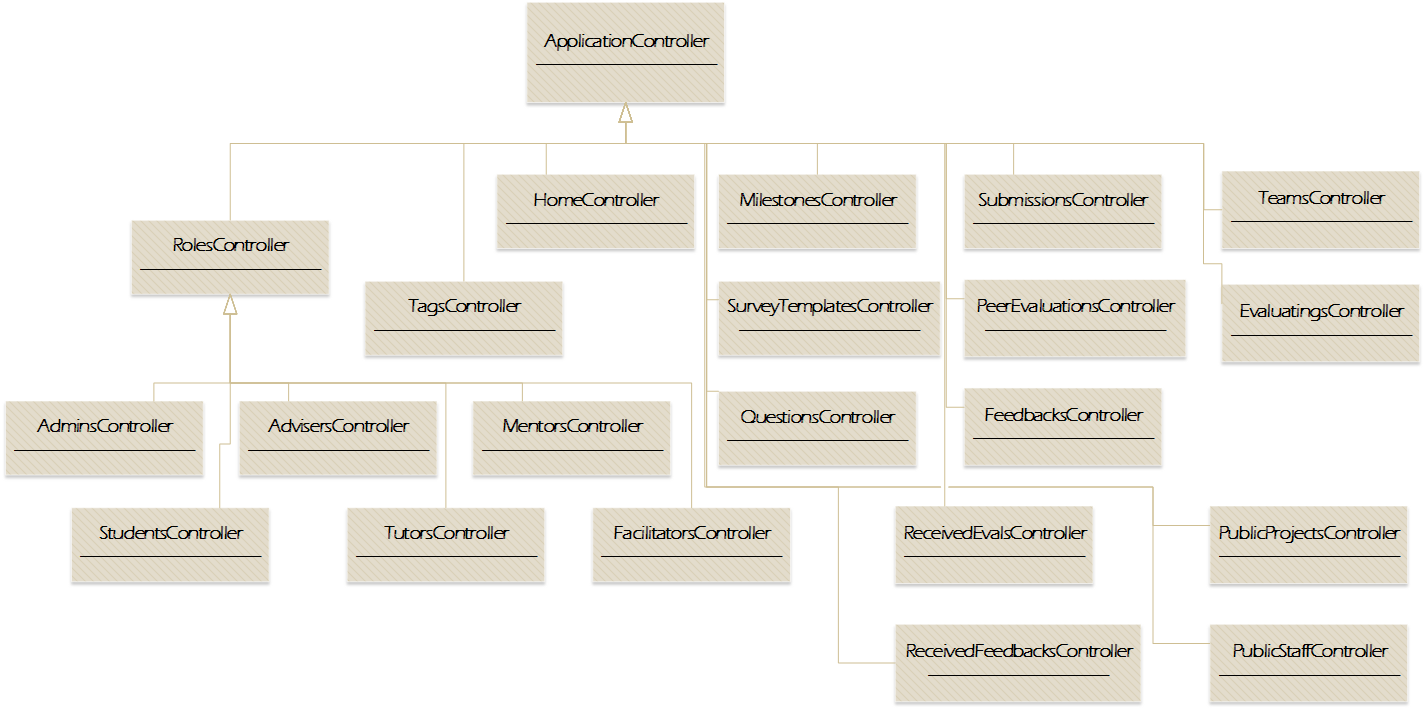
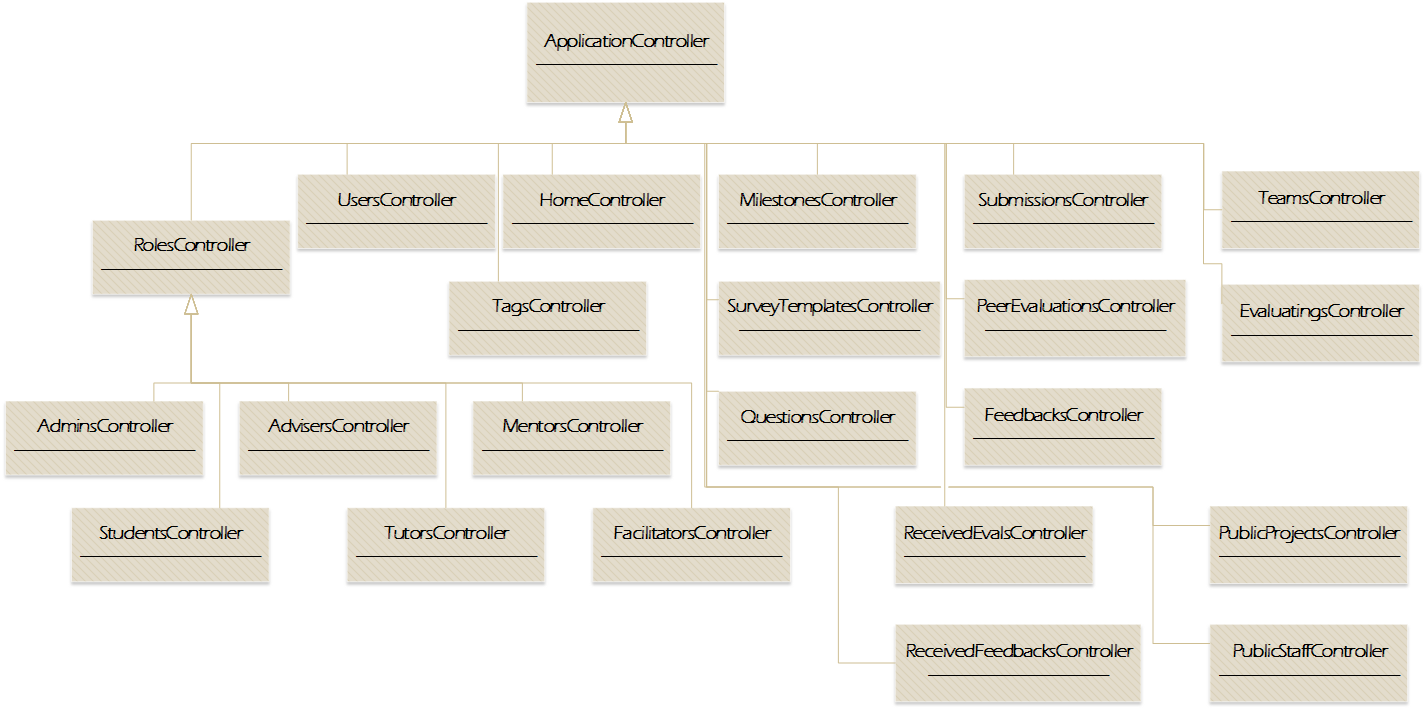
update controllers diagram

Changed region(s): [[0.0617, 0.2479, 0.4937, 0.5268]]

diff --git a/docs/2015_2016_Sem2_Final_Report/Chapters/Chapter_Background.tex b/docs/2015_2016_Sem2_Final_Report/Chapters/Chapter_Background.tex
@@ -54,7 +54,25 @@ Controllers will query models to get information needed to present views or make
   \label{fig:SkylabControllers}
 \end{figure}
 
-ApplicationController is the base of all other controllers. Utility methods such as access control, page title and handling of exceptions are included in ApplicationController and it also includes auxiliary modules such as CohortHelper to enrich its functionality. RolesController is the base class of all roles` controller classes: AdminsController, AdvisersController, MentorsController, StudentsController, FacilitatorsController and TutorsController. These roles share quite a lot in common so they will share request processing methods and they will override data related methods or provide some handlers for special cases. 
+ApplicationController is the base of all other controllers. Utility methods such as access control, page title and handling of exceptions are included in ApplicationController and it also includes auxiliary modules such as CohortHelper to enrich its functionality. RolesController is the base class of all roles` controller classes: AdminsController, AdvisersController, MentorsController, StudentsController, FacilitatorsController and TutorsController. These roles share quite a lot in common so they will share request processing methods and they will override data related methods or provide some handlers for special cases. Other controllers are as follows:
+
+\begin{itemize}
+  \item \textbf{HomeController}: serves home page to user only.
+  \item \textbf{UsersConroller}: 
+  \item \textbf{TagsConroller}: 
+  \item \textbf{MilestonesConroller}: 
+  \item \textbf{SurveyTemplatesConroller}: 
+  \item \textbf{QuestionsConroller}: 
+  \item \textbf{SubmissionsConroller}: 
+  \item \textbf{PeerEvaluationsConroller}: 
+  \item \textbf{FeedbacksConroller}: 
+  \item \textbf{ReceivedEvalsConroller}: 
+  \item \textbf{ReceivedFeedbacksConroller}: 
+  \item \textbf{PublicProjectsConroller}: 
+  \item \textbf{PublicStaffConroller}: 
+  \item \textbf{TeamsConroller}: 
+  \item \textbf{EvaluatingsConroller}: 
+\end{itemize} 
 
 \section{Development process}
 
